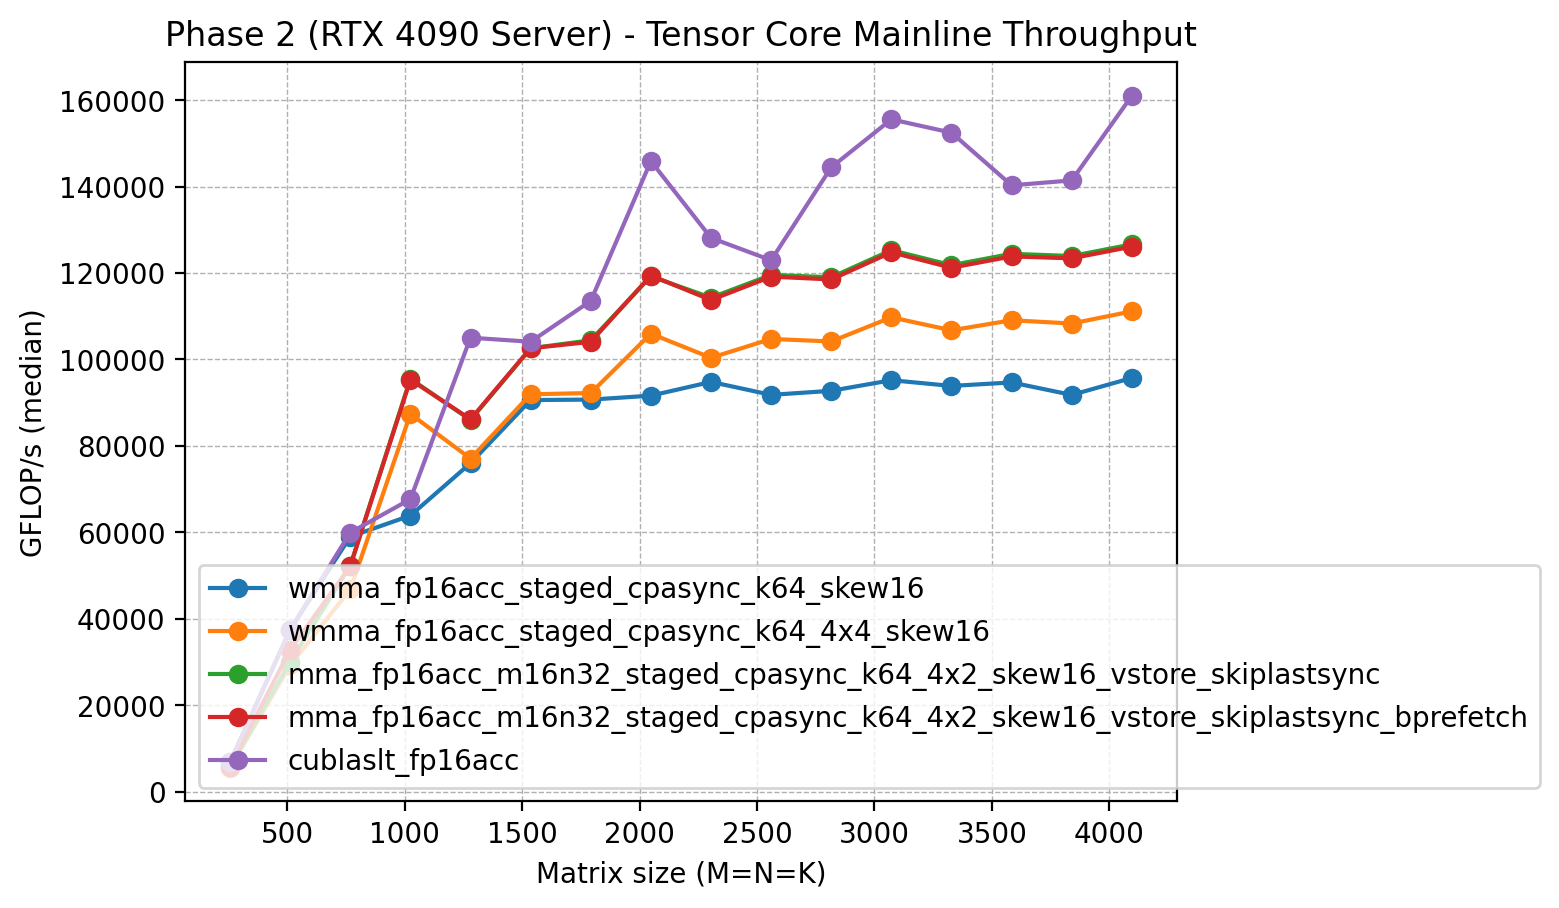
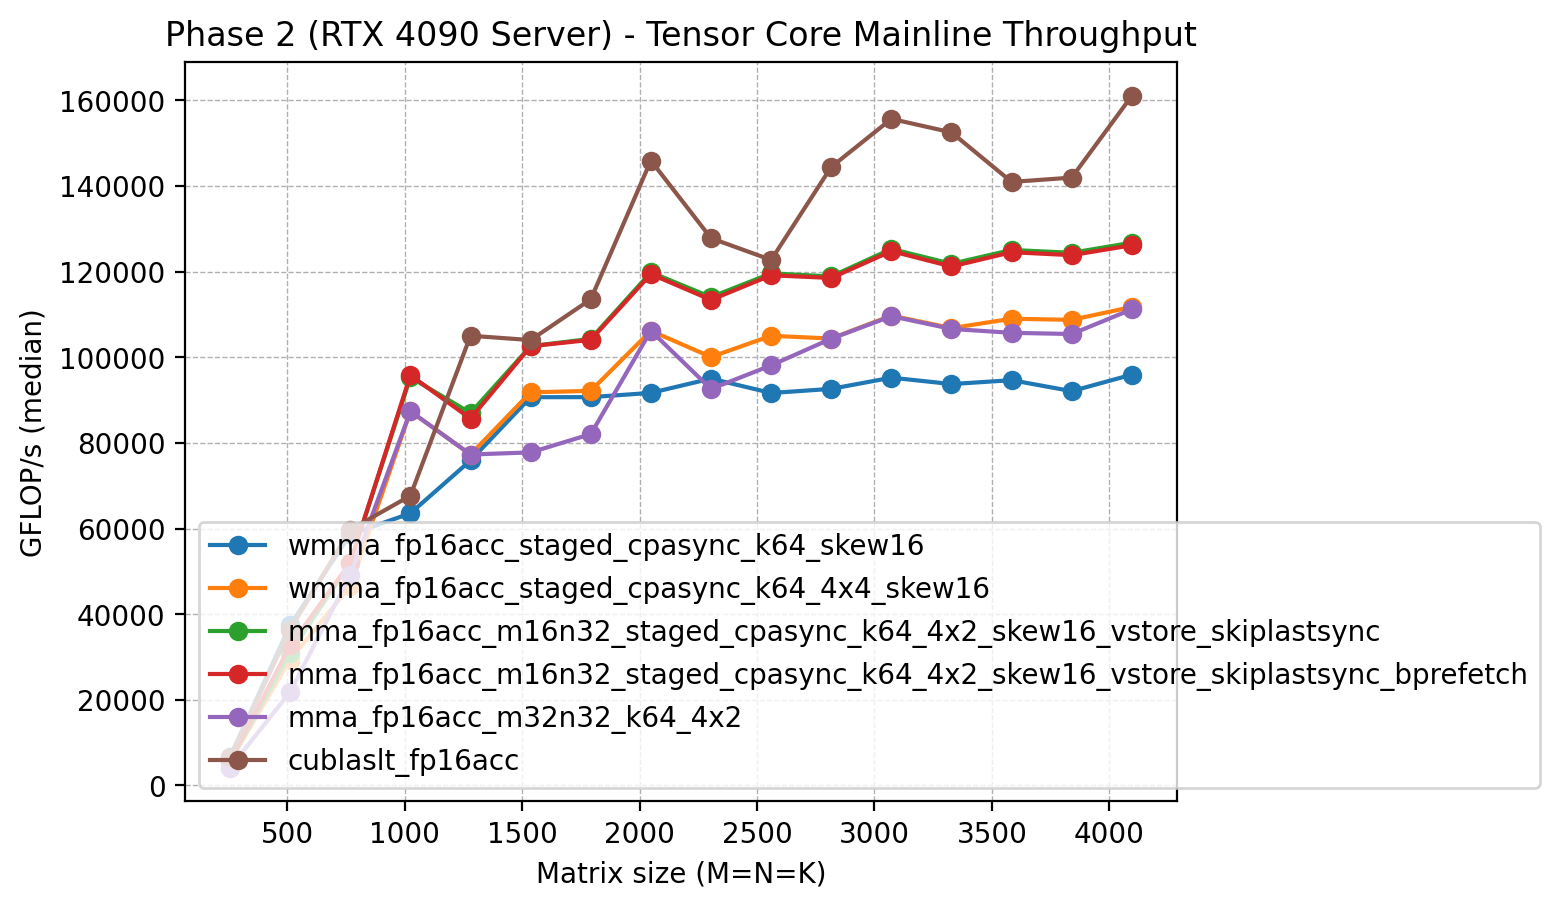
mma_fp16acc_m32n32_k64_4x2算子，结果不如最优算子

diff --git a/scripts/plot.py b/scripts/plot.py
@@ -100,6 +100,7 @@ PHASE2_4090_IMPLS = [
     # "mma_fp16acc_m16n32_staged_cpasync_k64_4x4_skew16",
     # "mma_fp16acc_m16n64_staged_cpasync_k64_4x1_skew16",
     # "mma_fp16acc_m16n64_staged_cpasync_k64_4x2_skew16",
+    "mma_fp16acc_m32n32_k64_4x2",
     # "cublas_gemmex_fp16acc",
     "cublaslt_fp16acc",
 ]
